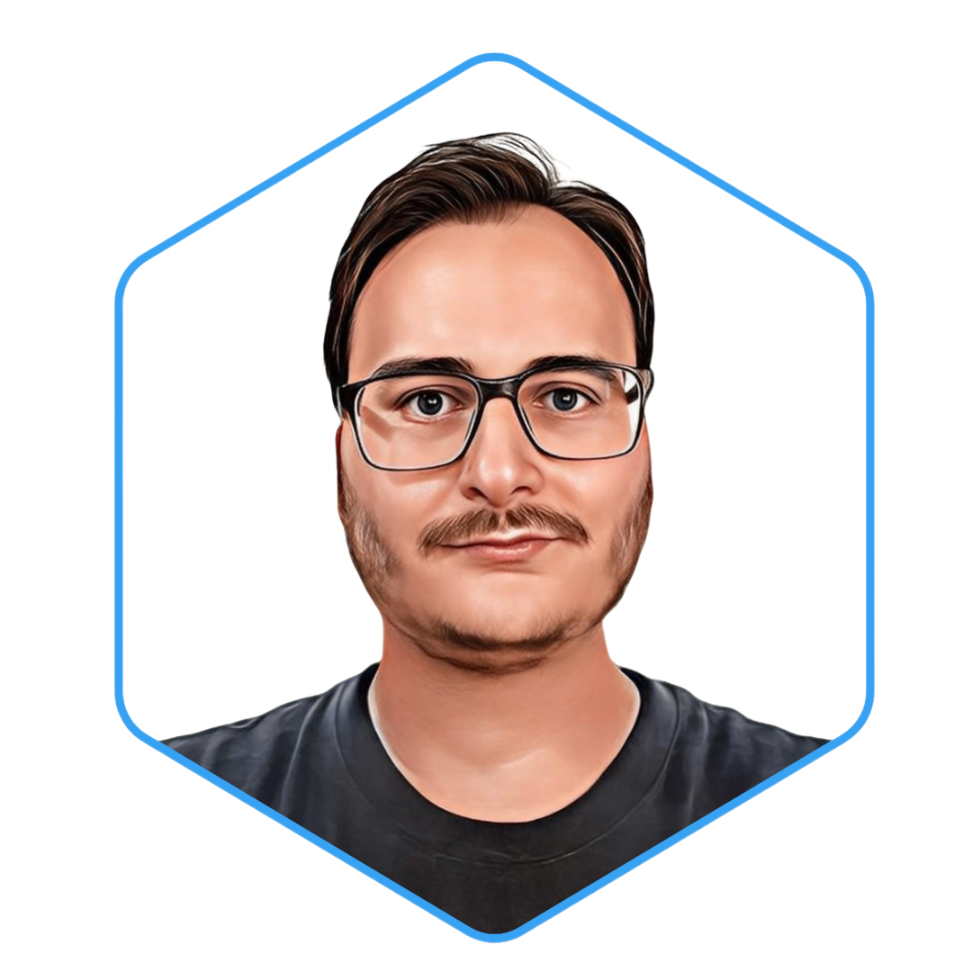
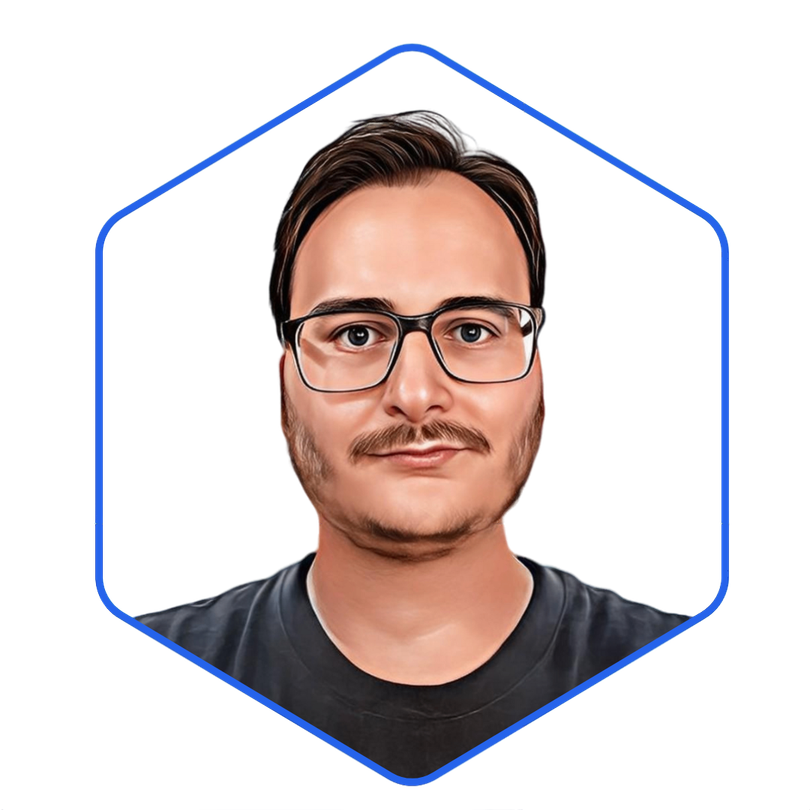
mudei o azul

diff --git a/CSS/style.css b/CSS/style.css
@@ -70,7 +70,7 @@ html {
 
 .navbar a:hover,
 .navbar a.destaque {
-  color: #37a1f2;
+  color: #2563eb;
 }
 
 #menu-icon {
@@ -114,7 +114,7 @@ section {
 }
 
 span {
-  color: #37a1f2;
+  color: #2563eb;
 }
 
 .home-content p {
@@ -145,37 +145,37 @@ span {
   width: 4rem;
   height: 4rem;
   background: transparent;
-  border: 0.2rem solid #37a1f2;
+  border: 0.2rem solid #2563eb;
   border-radius: 50%;
   font-size: 2.3rem;
-  color: #37a1f2;
+  color: #2563eb;
   margin: 3rem 1.5rem 3rem 0;
   transition: 0.5s ease;
 }
 
 .social-media a:hover {
-  background: #37a1f2;
+  background: #2563eb;
   color: #f0f3fd;
-  box-shadow: 0 0 1rem #37a1f2;
+  box-shadow: 0 0 1rem #2563eb;
 }
 
 .btn {
   display: inline-block;
   padding: 1rem 2.8rem;
-  background: #37a1f2;
-  border: 0.125rem solid #37a1f2;
+  background: #2563eb;
+  border: 0.125rem solid #2563eb;
   border-radius: 4rem;
   font-size: 1.6rem;
   color: #f0f3fd;
   letter-spacing: 0.1rem;
   font-weight: 600;
   transition: 0.5s ease;
-  box-shadow: 0 0 1rem #37a1f2;
+  box-shadow: 0 0 1rem #2563eb;
 }
 
 .btn:hover {
   background: transparent;
-  color: #37a1f2;
+  color: #2563eb;
   box-shadow: none;
 }
 
@@ -208,7 +208,7 @@ span {
 
 #dark-container .navbar a:hover,
 #dark-container .navbar a.destaque {
-  color: #37a1f2;
+  color: #2563eb;
 }
 
 #container,
@@ -234,7 +234,7 @@ span {
 
 .sobre-img img {
   width: 25vw;
-  border: 0.2rem solid #37a1f2;
+  border: 0.2rem solid #2563eb;
   border-radius: 5rem;
 }
 
@@ -300,7 +300,7 @@ span {
 }
 
 .formacoes-column .formacoes-box {
-  border-left: 0.2rem solid #37a1f2;
+  border-left: 0.2rem solid #2563eb;
 }
 
 .formacoes-box .formacoes-content {
@@ -315,14 +315,14 @@ span {
   left: -1.1rem;
   width: 2rem;
   height: 2rem;
-  background-color: #37a1f2;
+  background-color: #2563eb;
   border-radius: 50%;
 }
 
 .formacoes-content .content {
   position: relative;
   padding: 1.5rem;
-  border: 0.2rem solid #37a1f2;
+  border: 0.2rem solid #2563eb;
   border-radius: 0.6rem;
   margin-bottom: 2rem;
   overflow: hidden;
@@ -362,7 +362,7 @@ span {
 
 .formacoes-content .content .year {
   font-size: 1.5rem;
-  color: #37a1f2;
+  color: #2563eb;
   padding-bottom: 0.5rem;
 }
 
@@ -398,12 +398,12 @@ span {
 }
 
 .habilidades-container .habilidades-box:hover {
-  border-color: #37a1f2;
+  border-color: #2563eb;
   transform: scale(1.02);
 }
 
 #dark-container .habilidades-container .habilidades-box:hover {
-  border-color: #37a1f2;
+  border-color: #2563eb;
   transform: scale(1.02);
 }
 
@@ -417,7 +417,7 @@ span {
 
 .habilidades-container i {
   font-size: 5rem;
-  color: #37a1f2;
+  color: #2563eb;
 }
 
 .habilidades-box h3 {
@@ -444,7 +444,7 @@ span {
 .portfolio-container .portfolio-box {
   position: relative;
   border-radius: 2rem;
-  box-shadow: 0 0 1rem #37a1f2;
+  box-shadow: 0 0 1rem #2563eb;
   overflow: hidden;
   display: flex;
 }
@@ -464,7 +464,7 @@ span {
   left: 0;
   width: 100%;
   height: 100%;
-  background: linear-gradient(rgba(0, 0, 0, 0.1), #37a1f2);
+  background: linear-gradient(rgba(0, 0, 0, 0.1), #2563eb);
   display: flex;
   align-items: center;
   justify-content: center;
@@ -581,13 +581,13 @@ input::-webkit-inner-spin-button {
   justify-content: center;
   align-items: center;
   padding: 0.8rem;
-  background: #37a1f2;
+  background: #2563eb;
   border-radius: 0.8rem;
   transition: 0.5s ease;
 }
 
 .footer-iconTop a:hover {
-  box-shadow: 0 0 1rem #37a1f2;
+  box-shadow: 0 0 1rem #2563eb;
 }
 
 .footer-iconTop a i {
